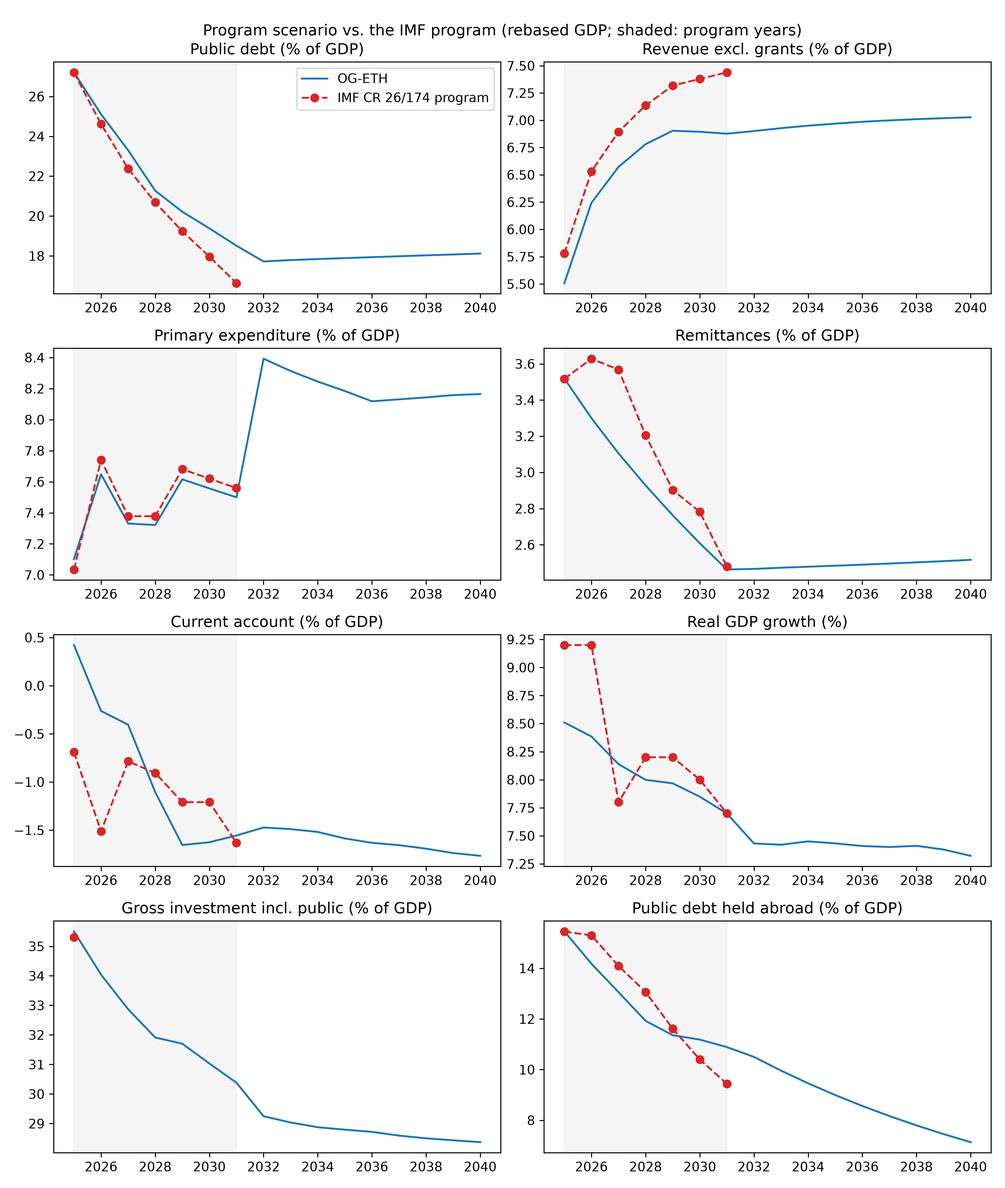
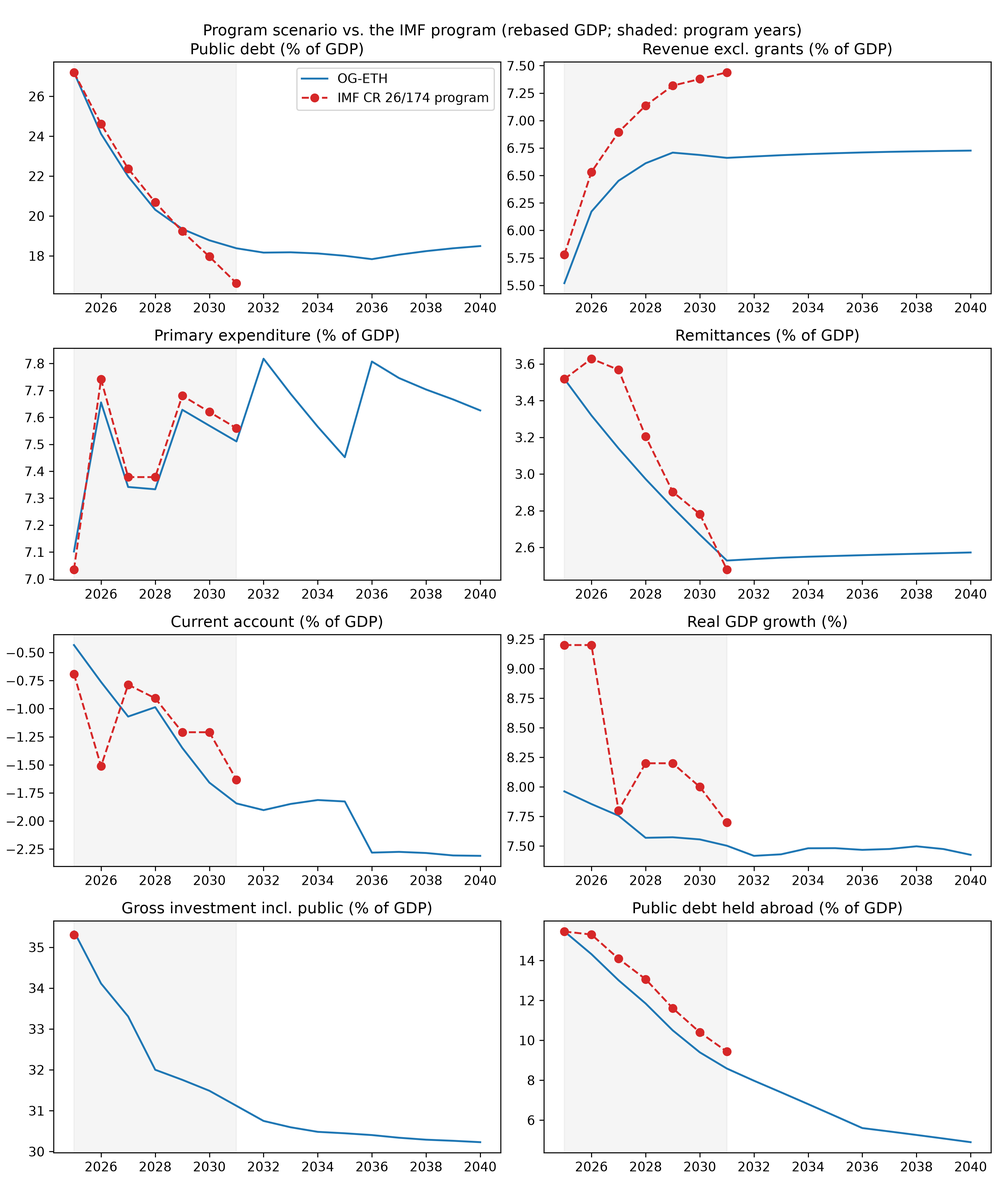
Docs: concessional debt, the market-debt rate path, rebased capital stocks, and the validation table and figures from the official runs of both scenarios

diff --git a/docs/create_doc_figures.py b/docs/create_doc_figures.py
@@ -215,6 +215,8 @@ def calibration_vs_data(
     )[:horizon].reshape(horizon, -1).sum(axis=1)
 
     def ratio(key):
+        if key not in tpi:  # an ogcore without concessional debt
+            return np.zeros(horizon)
         return (
             np.asarray(tpi[key])[:horizon].reshape(horizon, -1).sum(axis=1)
             / y_mkt
@@ -225,9 +227,9 @@ def calibration_vs_data(
         1 + np.asarray(params.g_n)[1 : horizon + 1]
     ) - 1
     # the model's current account: the goods-market residual (net exports)
-    # less the returns paid on foreign-owned capital and foreign-held debt
-    # (OG-Core prices both at the household portfolio return r_p) plus
-    # remittances and grants
+    # less the returns paid on foreign-owned capital and foreign-held market
+    # debt (OG-Core prices both at the household portfolio return r_p) and
+    # the interest on concessional debt, plus remittances and grants
     net_exports = (
         np.asarray(tpi["Y"])[:horizon] / y_mkt
         - ratio("C")
@@ -236,7 +238,9 @@ def calibration_vs_data(
         - ratio("G")
     )
     r_p = np.asarray(tpi["r_p"])[:horizon]
-    factor_payments = r_p * (ratio("K_f") + ratio("D_f"))
+    factor_payments = r_p * (ratio("K_f") + ratio("D_f")) + ratio(
+        "debt_service_ODA"
+    )
     grants = (
         np.asarray(params.alpha_FA).flatten()[:horizon]
         * np.asarray(tpi["Y"])[:horizon]
@@ -244,7 +248,11 @@ def calibration_vs_data(
     )
     current_account = net_exports - factor_payments + ratio("RM") + grants
     panels = [
-        ("Public debt (% of GDP)", 100 * ratio("D"), program.IMF_PUBLIC_DEBT),
+        (
+            "Public debt (% of GDP)",
+            100 * (ratio("D") + ratio("D_ODA")),
+            program.IMF_PUBLIC_DEBT,
+        ),
         (
             "Revenue excl. grants (% of GDP)",
             100 * ratio("total_tax_revenue"),
@@ -288,7 +296,7 @@ def calibration_vs_data(
         ),
         (
             "Public debt held abroad (% of GDP)",
-            100 * ratio("D_f"),
+            100 * (ratio("D_f") + ratio("D_ODA")),
             list(
                 np.array(program.IMF_PUBLIC_DEBT)
                 - np.array(program.IMF_DOMESTIC_DEBT)

diff --git a/docs/book/content/calibration/macro.md b/docs/book/content/calibration/macro.md
@@ -17,7 +17,7 @@ What the rebasing does to a calibration depends on the numerator:
 - **Fiscal flows and stocks in birr, and balance-of-payments flows in dollars, keep their numerators.**  Their rebased ratio is the published ratio times old GDP over new GDP of the same year: 15,094/24,030 = 0.628 for FY2024/25 and 19,268/31,860 = 0.605 for FY2025/26 (`macro_params.rebase_factors`).  The IMF tables are kept exactly as published (on the old base) and converted in code, so every number remains traceable to its table.  Years the rebasing has not yet reached — FY2026/27 onward, still old-base IMF projections — take the FY2025/26 factor until the IMF re-bases its projections.  Public debt falls from 50.5 to 31.7 percent of GDP on the program's wide perimeter, or from 43.3 to 27.2 percent for general government (below); tax revenue from 7.8 to 4.9 percent.
 - **National-accounts components were revised in their numerators too**, so they are not rescaled but taken from the rebased accounts directly: private consumption 64.4 percent of GDP (80.9 on the old base) and gross capital formation **35.3** percent (20.1), FY2024/25, as reported from the ministry's rebasing report and checked against the old-base NBE tables.  Government consumption (about 4.7) and net exports (about −4.5, matching the balance-of-payments goods-and-services balance over rebased GDP) are derived.
 - **Growth rates and household surveys are unaffected**: hours, earnings and wealth distributions, demographics and productivity growth do not depend on the GDP level.  The rebased back series for 2016–2024 has not been published, so `g_y_annual` stays on the old-base growth rates.
-- **Capital stocks have not been rebased.**  The Penn World Table and the IMF capital-stock dataset are built on the old accounts, and the rebased accounts revise investment up by more than GDP.  The calibration assumes the stocks are revised in proportion to GDP, so the capital-output ratios carry over (`macro_params.PWT_CAPITAL_OUTPUT_RATIO`); this is its provisional element, and the capital-output ratio is reported as an outcome rather than targeted ({ref}`Sec_Validation`).
+- **Capital stocks are rebuilt on the rebased investment.**  The Penn World Table and the IMF capital-stock dataset are built on the old accounts, and the rebased accounts revise investment up far more than GDP: 35.3 against 20.1 percent of GDP in FY2024/25, investment by regional state-owned enterprises and non-profit institutions the old accounts missed.  The old accounts had investment at 35–38 percent of GDP in 2013–2017, falling to 20 percent by FY2024/25, so the undercount built up after the old base year.  We rebuild the total stock by perpetual inventory from PWT 11.0's investment and GDP at constant national prices, add the rebasing's investment gap phased in linearly from FY2015/16, and scale PWT's 2023 ratio by the revised over the unrevised stock-output ratio (`macro_params.rebased_capital_output_ratio`): total capital is **2.51** times GDP, in a range of 2.02 (no revision before FY2024/25) to 2.98 (the gap in every year since 1970).  Public capital is the IMF ICSD stock, 0.667 of old-base GDP, a stock of accumulated budget spending in birr that converts like other fiscal stocks (0.419 of rebased GDP), so private capital is 2.10.  The stocks remain the calibration's provisional element until the Ministry publishes capital stocks or back series, and the capital-output ratio is reported as an outcome rather than targeted ({ref}`Sec_Validation`).
 
 The calibration also uses GDP **at market prices**, the basis of every published ratio.  OG-Core's output $Y$ excludes the consumption tax (it is collected on top of the producer price), so shares OG-Core applies to its own $Y$ — spending, transfers, public investment, grants, remittances, the debt ratios, initial wealth and public capital — are the data share times $1/(1-	au^{c}	ext{-revenue share}) = 1.031$ (`macro_params.MODEL_PER_MARKET_GDP`), and model moments are scored over $Y$ plus the consumption tax (`ogeth/targets.py`).
 
@@ -39,7 +39,7 @@ $\zeta_D$ is the share of new **market** debt bought by foreign creditors, and w
 
 ### Foreign holdings of excess capital
 
-$\zeta_K$ is tuned to the foreign-owned share of private capital in FY2024/25, 14.7 percent: the UNCTAD inward FDI stock (World Investment Report 2026: USD 42.5 billion at end-2024 and 46.3 billion at end-2025, so 0.221 of rebased GDP at mid-year) over the private capital-output ratio of 1.50 (Penn World Table 11.0 total capital 2.167 less IMF public capital 0.667).  Ethiopia publishes no international investment position, so the FDI stock is the foreign-owned measure.  The share is scored in the first transition year, where the data are, because with initial wealth anchored to the data the first-year split between domestic and foreign capital depends on $\zeta_K$ (OG-PHL's practice).  The tuned value, 0.091, sits below the prior from Ethiopia's **normalized Chinn-Ito capital-account-openness index**, which is 0.162 in the 2023 vintage and flat since the 1990s (the [Chinn-Ito KAOPEN dataset](https://web.pdx.edu/~ito/Chinn-Ito_website.htm)).  This places Ethiopia in the second-lowest openness bin, just above fully-closed economies and well below the investment-grade siblings OG-PHL (0.45) and OG-IDN (0.42).  It is cross-checked against the flow evidence: foreign direct investment of about USD 4.0 billion in FY2024/25 ([Ethiopian Investment Commission](https://unctad.org/publication/world-investment-report-2025)) against gross fixed capital formation of about 20 percent of a roughly USD 126 billion economy implies foreign financing of new capital in the low-teens percent (about 11–16 percent depending on the window), which the FDI-stock level now replaces as the target.  Ethiopia is a near-closed capital account: the [IMF Annual Report on Exchange Arrangements and Exchange Restrictions](https://www.imf.org/en/Publications/Annual-Report-on-Exchange-Arrangements-and-Exchange-Restrictions) documents binding foreign-exchange controls until the July 2024 reform, no resident access to international portfolio markets, and only nascent foreign participation via the Ethiopian Securities Exchange (launched January 2025) and the 2024 banking-sector opening.  The index locates the plausible range; the FDI stock sets the level.
+$\zeta_K$ is tuned to the foreign-owned share of private capital in FY2024/25, 10.5 percent: the UNCTAD inward FDI stock (World Investment Report 2026: USD 42.5 billion at end-2024 and 46.3 billion at end-2025, so 0.221 of rebased GDP at mid-year) over the private capital-output ratio of 2.10 on the rebased accounts ({ref}`Sec_Rebasing`).  Ethiopia publishes no international investment position, so the FDI stock is the foreign-owned measure.  The share is scored in the first transition year, where the data are, because with initial wealth anchored to the data the first-year split between domestic and foreign capital depends on $\zeta_K$ (OG-PHL's practice).  The tuned value, 0.126, sits below the prior from Ethiopia's **normalized Chinn-Ito capital-account-openness index**, which is 0.162 in the 2023 vintage and flat since the 1990s (the [Chinn-Ito KAOPEN dataset](https://web.pdx.edu/~ito/Chinn-Ito_website.htm)).  This places Ethiopia in the second-lowest openness bin, just above fully-closed economies and well below the investment-grade siblings OG-PHL (0.45) and OG-IDN (0.42).  It is cross-checked against the flow evidence: foreign direct investment of about USD 4.0 billion in FY2024/25 ([Ethiopian Investment Commission](https://unctad.org/publication/world-investment-report-2025)) against gross fixed capital formation of about 20 percent of a roughly USD 126 billion economy implies foreign financing of new capital in the low-teens percent (about 11–16 percent depending on the window), which the FDI-stock level now replaces as the target.  Ethiopia is a near-closed capital account: the [IMF Annual Report on Exchange Arrangements and Exchange Restrictions](https://www.imf.org/en/Publications/Annual-Report-on-Exchange-Arrangements-and-Exchange-Restrictions) documents binding foreign-exchange controls until the July 2024 reform, no resident access to international portfolio markets, and only nascent foreign participation via the Ethiopian Securities Exchange (launched January 2025) and the 2024 banking-sector opening.  The index locates the plausible range; the FDI stock sets the level.
 
 ### World interest rate
 
@@ -172,7 +172,7 @@ OG-ETH program scenario against the IMF fifth-review program path.  Shaded years
 (Sec_InitialWealth)=
 ### Initial household wealth
 
-The transition starts from a predetermined stock of household wealth.  By default OG-Core sets it to the steady-state level, which for Ethiopia would mean starting the economy with the capital stock it will only reach after decades of catch-up.  Where the installed OG-Core supports it (PSLmodels/OG-Core#1189, `initial_wealth_ratio`), the example anchors aggregate initial wealth to the data instead: household wealth in the model is domestically owned capital plus domestically held government debt, so its data counterpart is the Penn World Table capital-output ratio of about 2.2, less the inward FDI stock of about 0.24 of GDP (UNCTAD), plus domestically held public debt of 18.7 percent of GDP (50.5 less 31.8 external; {cite}`IMFCR26174:2026`, Table 1) — a ratio of **2.15** to steady-state GDP, against a steady-state wealth-to-GDP ratio near 3.1.  The value lives in `ogeth.macro_params.INITIAL_WEALTH_RATIO` and is applied by the example only when the parameter exists, so the packaged calibration keeps loading with the released OG-Core; it moves into `ogeth_default_parameters.json` once an OG-Core release carrying the parameter is the project's floor.  Until then the project's `uv` environment pins OG-Core to a build with both this parameter and `r_gov_floor` — OG-Core master merged into the #1189 branch, on `marcelolafleur/OG-Core` (`integrate/master-plus-1189`) — via `[tool.uv.sources]` in `pyproject.toml`, so `uv sync` followed by `uv run python examples/run_og_eth.py` reproduces the results on this page; a `pip install ogeth` gets the released OG-Core and the two fallbacks the example announces.
+The transition starts from a predetermined stock of household wealth.  By default OG-Core sets it to the steady-state level, which for Ethiopia would mean starting the economy with the capital stock it will only reach after decades of catch-up.  Where the installed OG-Core supports it (PSLmodels/OG-Core#1189, `initial_wealth_ratio`), the example anchors aggregate initial wealth to the data instead: household wealth in the model is domestically owned capital plus domestically held government debt, so its data counterpart is private capital of 2.10 times GDP on the rebased accounts ({ref}`Sec_Rebasing`), less the inward FDI stock of 0.221 of GDP (UNCTAD), plus domestically held general-government debt of 11.7 percent of rebased GDP (18.7 percent of old-base GDP; {cite}`IMFCR26174:2026`, Table 1) — 1.99 times GDP at market prices, **2.054** in the model's output units (`ogeth.macro_params.INITIAL_WEALTH_RATIO`, set in the packaged parameters).  With OG-Core's Anderson outer loop the anchor is accelerated together with the prices; damped on its own it took about three times as many transition iterations (PSLmodels/OG-Core, branch `anderson-initial-wealth`).
 
 
 ### Remittances
@@ -196,7 +196,7 @@ The quintile shares are mapped onto the model's seven lifetime-income groups by 
 (Sec_Validation)=
 ## Validation
 
-Every target is a measured FY2024/25 value on the rebased national accounts at market prices (`ogeth/targets.py`), and the dials tuned to them are scored in the **first model year**, where the data are: Ethiopia's population is far from stationary and its initial wealth is anchored to the data, so a steady-state moment would describe a different economy.  The steady state is matched only to the household survey distributions (hours by age, wealth shares) and to its policy anchors.  The table compares the solved transitions and steady states of both scenarios (`examples/run_og_eth.py` and `--scenario program`, OG-Core 0.24.4 with PSLmodels/OG-Core#1276 and #1277) with the data.  Revenue lines are the mapped instruments of {ref}`Chap_Tax`.
+Every target is a measured FY2024/25 value on the rebased national accounts at market prices (`ogeth/targets.py`), and the dials tuned to them are scored in the **first model year**, where the data are: Ethiopia's population is far from stationary and its initial wealth is anchored to the data, so a steady-state moment would describe a different economy.  The steady state is matched only to the household survey distributions (hours by age, wealth shares) and to its policy anchors.  The table compares the solved transitions and steady states of both scenarios (`examples/run_og_eth.py` and `--scenario program`, from an installer copy of this branch; OG-Core master with concessional debt, PSLmodels/OG-Core#1276 and #1277, and Anderson-accelerated initial wealth) with the data.  Each transition converged in 17 outer iterations, about four and a half minutes.  Revenue lines are the mapped instruments of {ref}`Chap_Tax`.
 
 ```{figure} ./images/calibration_vs_program.png
 ---
@@ -209,43 +209,47 @@ OG-ETH history-anchored baseline against the IMF fifth-review program path, both
 
 | Moment | History-anchored baseline | Program scenario | Ethiopia data | Source |
 |:---|:---:|:---:|:---:|:---|
-| General-government debt / GDP, FY2030/31 | 19.6 | 18.5 | 16.6 (program); 27.2 in FY2024/25 | IMF WEO Oct 2026, rebased |
-| Debt anchor `debt_ratio_ss` (model units) | 0.280 (measured) | 0.187 (program) |  |  |
-| Revenue excl. grants / GDP, FY2024/25 → FY2030/31 | 5.5 → 5.9 | 5.5 → 6.9 | 5.8 → 7.4 (program); mapped instruments 5.55 in FY2024/25 | NBE AR 2024/25; IMF CR 26/174 |
+| General-government debt / GDP, FY2030/31 | 21.1 | 18.4 | 16.6 (program); 27.2 in FY2024/25 | IMF WEO Oct 2026, rebased |
+| of which concessional, FY2024/25 | 13.9 | 13.9 | 13.9 (official share of external debt) | IMF CR 26/174 DSA |
+| Debt anchor `debt_ratio_ss` (model units, all market debt in the long run) | 0.280 (measured) | 0.187 (program) |  |  |
+| Revenue excl. grants / GDP, FY2024/25 → FY2030/31 | 5.5 → 5.7 | 5.5 → 6.7 | 5.8 → 7.4 (program); mapped instruments 5.55 in FY2024/25 | NBE AR 2024/25; IMF CR 26/174 |
 | Personal income tax / GDP, FY2024/25 | 0.81 | 0.81 | 0.81 | NBE AR 2024/25 |
 | Corporate and capital-income taxes / GDP, FY2024/25 | 1.26 | 1.26 | 1.26 | NBE AR 2024/25 |
-| Consumption taxes, fees and sales / GDP, FY2024/25 | 2.98 | 2.96 | 3.01 | NBE AR 2024/25 |
+| Consumption taxes, fees and sales / GDP, FY2024/25 | 3.00 | 2.98 | 3.01 | NBE AR 2024/25 |
 | Land-use fees / GDP, FY2024/25 | 0.18 | 0.18 | 0.18 | NBE AR 2024/25 |
 | Pension contributions / GDP, FY2024/25 | 0.29 | 0.29 | 0.29 (estimate) | POESSA, PSSSA |
-| Pension outlays / GDP, FY2024/25; steady state | 0.31; 1.10 | 0.31; 1.08 | 0.31 (FY2024/25) | IMF CR 26/174, rebased |
-| Gross capital formation / GDP, FY2024/25 | 35.4 | 35.5 | 35.3 | rebased national accounts |
-| Private consumption / GDP, FY2024/25 | 60.1 | 59.7 | 64.4 | rebased national accounts |
-| Foreign-owned share of private capital, FY2024/25 | 14.7 | 14.7 | 14.7 | UNCTAD WIR 2026; PWT 11.0; IMF ICSD |
-| Household wealth / GDP, FY2024/25 (imposed); steady state | 1.40; 2.39 | 1.40; 2.33 | 1.40 | PWT, UNCTAD, IMF |
-| Private capital / GDP, FY2024/25; steady state | 1.50; 2.28 | 1.50; 2.30 | 1.50 (provisional) | PWT 11.0 less ICSD |
+| Pension outlays / GDP, FY2024/25; steady state | 0.31; 1.06 | 0.32; 1.05 | 0.31 (FY2024/25) | IMF CR 26/174, rebased |
+| Gross capital formation / GDP, FY2024/25 | 35.4 | 35.4 | 35.3 | rebased national accounts |
+| Private consumption / GDP, FY2024/25 | 64.7 | 64.3 | 64.4 | rebased national accounts |
+| Foreign-owned share of private capital, FY2024/25 | 10.5 | 10.5 | 10.5 | UNCTAD WIR 2026; rebased stocks |
+| Household wealth / GDP, FY2024/25 (imposed); steady state | 1.99; 2.69 | 1.99; 2.61 | 1.99 | rebased stocks, UNCTAD, IMF |
+| Private capital / GDP, FY2024/25; steady state | 2.10; 2.58 | 2.10; 2.58 | 2.10 (rebuilt, provisional) | PWT 11.0 with the rebasing's investment, less ICSD |
 | Remittances / GDP | 3.5 (flat) | 3.5 → 2.4 | 3.5 (FY2024/25) | IMF CR 26/174, rebased |
-| Net exports / GDP, FY2024/25; steady state | 1.8; -4.0 | 2.1; -2.4 | -4.5 | IMF CR 26/174 Table 4a, rebased |
-| Factor payments abroad / GDP, FY2024/25 | 6.3 | 6.3 | 0.4 | IMF CR 26/174 Table 4a |
+| Net exports / GDP, FY2024/25; steady state | -2.8; -4.1 | -2.4; -2.5 | -4.5 | IMF CR 26/174 Table 4a, rebased |
+| Payments abroad on capital and debt / GDP, FY2024/25 | 2.6 | 2.6 | 0.4 (net primary income) | IMF CR 26/174 Table 4a |
 | Government consumption / GDP | 2.7 | 2.7 | 2.8 (fiscal accounts); about 4.7 (national accounts) | IMF CR 26/174; rebased accounts |
-| Real GDP growth, FY2025/26 | 8.4 | 8.5 | 7.7 (rebased, preliminary); 9.2 (IMF, old base) | MoNS; IMF CR 26/174 |
-| Return on capital $r$, FY2024/25; steady state | 13.7; 7.2 | 13.7; 7.0 | high (capital-scarce) | model |
+| Real GDP growth, FY2025/26 | 7.9 | 8.0 | 7.7 (rebased, preliminary); 9.2 (IMF, old base) | MoNS; IMF CR 26/174 |
+| Return on capital $r$, FY2024/25; steady state | 8.9; 6.3 | 8.9; 6.2 | high (capital-scarce) | model |
+| Real rate on market debt $r_{gov}$, FY2024/25; steady state | -10.3; 4.7 | -10.4; 4.7 | -11.0; 4.5–4.9 (new domestic borrowing) | IMF CR 26/174 DSA |
 
-**What the calibration matches.**  Every dial lands on its own moment in FY2024/25 to within about 1 percent: personal income tax, corporate and capital-income taxes, consumption taxes and fees, land-use fees, pension contributions and pension outlays, gross capital formation (the level of patience) and the foreign-owned share of private capital ($\zeta_K$).  Debt, household wealth and remittances are imposed at their measured values.  Hours per person match the 2021 Labour Force and Migration Survey at every fitted age, and the wealth shares match WID's 2021 shares for every group to within 4 percent ({ref}`Chap_HouseholdCalib`).
+**What the calibration matches.**  Every dial lands on its own moment in FY2024/25 to within about 1 percent: personal income tax, corporate and capital-income taxes, consumption taxes and fees, land-use fees, pension contributions and pension outlays, gross capital formation (the level of patience) and the foreign-owned share of private capital ($\zeta_K$).  Debt, its concessional part, household wealth and remittances are imposed at their measured values.  Private consumption, which no dial targets, lands at 64.7 percent of GDP against 64.4.  Hours per person match the 2021 Labour Force and Migration Survey at every fitted age, and the wealth shares match WID's 2021 shares for every group to within 1 percent ({ref}`Chap_HouseholdCalib`).
 
-**What the history-anchored baseline finds.**  With nothing imposed after the FY2025/26 budget, general-government debt falls from 27.2 to 19.6 percent of GDP by FY2030/31, against the program's 16.6: most of the program's debt decline comes from growth and the negative real rate eroding the legacy stock, and the rest from the measures the program adds (revenue rising to 7.4 rather than 5.9 percent of GDP, the phase-out of grants, the borrowing mix).  After FY2030/31 the closure rule returns debt to its measured starting ratio, which shows as the jump in primary spending in 2032; that is the baseline's definition of unchanged policy, not a forecast.  Growth runs 8.4 percent in FY2025/26 against the rebased preliminary 7.7 and the IMF's old-base 9.2.  The program scenario lands debt at 18.5 percent in FY2030/31 with revenue at 6.9.
+**What concessional debt changed.**  Before it was modelled, every unit of public debt held abroad earned the household portfolio return, about 12 percent in the first year, so payments abroad were 6.3 percent of GDP, the model needed a trade surplus of 1.8 percent to pay them, and consumption fell to 60 percent of GDP.  With the official share of external debt at its own rate (about $-1$ percent real in FY2024/25), interest on public debt held abroad nets to about zero (0.2 percent of GDP on foreign-held market debt, less 0.2 of negative real interest on concessional debt) instead of 1.8, the trade balance is a deficit of 2.8 percent and consumption is 64.7.  The rest of the difference comes from the rebased capital stocks, which lowered the first-year return on capital from 13.7 to 8.9 percent.
 
-**What neither scenario matches, and why.**  *The trade balance and consumption* are one gap.  OG-Core pays foreign-owned capital and foreign-held public debt the household portfolio return, 14 percent in real terms in the first year (`fiscal.get_debt_service_f`, `aggregates.get_capital_outflows`), so factor payments abroad are 6.3 percent of GDP against 0.4 in the data, where external public debt is concessional and repatriated FDI income small.  With the external inflows (remittances, grants) tied down, the model must run a trade surplus of 1.8 percent of GDP to pay them, against a deficit of 4.5, and consumption absorbs the difference (60 against 64 percent of GDP).  The gap shrinks as the first-year return falls (factor payments 3.5 percent of GDP by FY2030/31) and is a convention of OG-Core's open-economy block, not a shortfall of external financing.  *Government consumption* is 2.7 percent of GDP, the fiscal-accounts figure the budget identity uses; the rebased national accounts imply about 4.7 (derived as a residual), a gap the full rebasing report should reconcile.  *The capital-output ratio* is not targeted: on the rebased accounts the Penn World Table stock is provisional, and the steady-state private ratio of 2.3 follows from patience set by first-year investment.
+**What the history-anchored baseline finds.**  With nothing imposed after the FY2025/26 budget, general-government debt falls from 27.2 to 21.1 percent of GDP by FY2030/31, against the program's 16.6, and public debt held abroad follows the program's path closely as concessional debt is repaid.  Most of the program's further decline comes from the measures it adds (revenue rising to 7.4 rather than 5.7 percent of GDP, the phase-out of grants).  After FY2030/31 the closure rule returns debt to its measured starting ratio, refinancing the remaining concessional debt with market debt; that is the baseline's definition of unchanged policy, not a forecast.  Growth runs 7.9 percent in FY2025/26 against the rebased preliminary 7.7 and the IMF's old-base 9.2.  The program scenario lands debt at 18.4 percent in FY2030/31 with revenue at 6.7.  The paths have a kink in 2036, where the concessional-debt path, interpolated between the DSA's published years, slows its decline and the closure rule spends the smaller repayments.
 
-**Resource constraint.**  The transition's resource-constraint error is at most $1.2 \times 10^{-7}$ in every period except period 120, where OG-Core switches to the fixed steady-state population (`fixper`) and the error is $2.6 \times 10^{-4}$, a known OG-Core bookkeeping break ({ref}`Chap_Demog`).  `RC_TPI` is set to $10^{-3}$, ten times OG-Core's default, to accommodate that single period; it was 0.01 before.
+**What neither scenario matches, and why.**  *The trade balance* is about 1.7 points of GDP short of the data's deficit, and almost all of that is *government consumption*: 2.7 percent of GDP, the fiscal-accounts figure the budget identity uses, against about 4.7 in the rebased national accounts, where it is derived as a residual.  Two more points of government consumption would put the trade balance near the data; the full rebasing report should reconcile the two.  *Payments abroad* remain 2.6 percent of GDP against net primary income of 0.4: OG-Core pays foreign-owned capital the household portfolio return, which includes the rent on public capital (about 12 percent in the first year, `aggregates.get_r_p`), while the inward FDI return measured for Africa is about 6 percent.  This is a convention of OG-Core's open-economy block.  *The capital-output ratio* is not targeted: the rebuilt stock is provisional, and the steady-state private ratio of 2.6 follows from patience set by first-year investment.
+
+**Resource constraint.**  The transition's resource-constraint error is at most $1.5 \times 10^{-7}$ in every period except period 120, where OG-Core switches to the fixed steady-state population (`fixper`) and the error is $3.1 \times 10^{-4}$, a known OG-Core bookkeeping break ({ref}`Chap_Demog`).  `RC_TPI` is set to $10^{-3}$, ten times OG-Core's default, to accommodate that single period; it was 0.01 before.
 
 | Periods | Largest resource-constraint error |
 |:---|:---:|
-| 0–9 (FY2024/25–FY2033/34) | 1.2e-7 |
-| 10–69 | 4.5e-8 |
-| 70–80 (end of the UN data window, 2098) | 1.8e-9 |
-| 81–118 | 1.8e-9 |
-| 119–122 (`fixper` = 120) | 2.6e-4 |
-| 123 to the end | 6.6e-8 |
+| 0–9 (FY2024/25–FY2033/34) | 1.3e-7 |
+| 10–69 | 1.3e-7 |
+| 70–80 (end of the UN data window, 2098) | 7.1e-8 |
+| 81–118 | 8.4e-8 |
+| 119–122 (`fixper` = 120) | 3.1e-4 |
+| 123 to the end | 1.8e-8 |
 
 (SecMacro_footnotes)=
 ## Footnotes

diff --git a/CHANGELOG.md b/CHANGELOG.md
@@ -15,14 +15,17 @@ and this project adheres to [Semantic Versioning](https://semver.org/spec/v2.0.0
 * The payroll tax varies by lifetime-income group (OG-Core 0.20.4+): the statutory 18 percent contribution on the pension-covered groups times a contribution scale tuned to contributions, zero for the informal groups (previously a flat 3 percent on everyone).
 * The earnings age factor is now pay **per hour**: NTA labor income per capita divided by hours worked per person (employment ratio times weekly hours of the employed; LFMS 2021 for Ethiopia, ILOSTAT CPS 2010 for the United States), because labor supply is hours per person and dividing by the employment ratio alone counted hours twice (OG-PHL's correction).
 * The demographics read the UN projection to **2098** instead of two years past the start year, so long-run population growth is the projection's end-of-century rate (about -0.1 percent) instead of today's 2.6 percent frozen forever.
-* Depreciation of private capital is sourced: 0.0509 from the Penn World Table 11.0 total rate of 0.0414 with public capital (IMF ICSD) at 0.02. Capital-output ratios use PWT 11.0 (2.167 total, 1.50 private) on the assumption that the rebasing revises capital stocks in proportion to GDP; they are reported as outcomes, not targets.
-* Initial household wealth is private K/Y less the FDI stock (UNCTAD WIR 2026, 0.221 of rebased GDP) plus domestic debt, 1.44 of model output (previously 2.15, which did not subtract public capital); on OG-Core 0.22+ `initial_wealth_ratio` is relative to first-year GDP.
-* `zeta_K` is tuned to the foreign-owned share of private capital in FY2024/25 (FDI stock over private capital, 14.7 percent) and comes out at 0.091; the level of the discount factors is tuned to first-year investment (35.3 percent of GDP), the relative factors to WID wealth shares, and `chi_n` to LFMS hours by age. `beta_annual` is now 0.684, 0.684, 0.834, 0.879, 0.901, 0.912, 0.958. The tuning runs through `examples/tune.py`, which scores every dial on its own moment, in the first model year for the fiscal and investment dials and in the steady state for hours and wealth shares; the superseded steady-state matching loop in `ogeth.calibrate` is removed.
-* The bottom quarter's wealth share (floored at 0.5 percent; negative in WID) is matched with its own bequest weight, `chi_b` 80 -> 8.73 for that group. With OG-USA's 80 the poorest elderly, whose transfers and remittances are several times their consumption, saved nearly all of them for bequests (the group held 2.3 percent of wealth), and the resulting first-year household problem was so badly conditioned that the corporate-tax reform's transition failed OG-Core 0.24's check on households alive in the first year (on released OG-Core and with #1276/#1277 alike). With the new weight every group's wealth share matches WID within 4 percent and both scenarios' baseline and reform solve, with Euler errors near 1e-10.
-* `RC_TPI` 0.01 -> 0.001: the transition's resource-constraint error is at most 1.2e-7 in every period except the `fixper` switch to the stationary population (period 120, 2.6e-4).
-* `mean_income_data` is rebased GDP per adult in FY2024/25 birr, the model's currency unit (360,264 birr). The effective consumption-tax rate (`tau_c` 0.060 -> 0.052), the CIT collections factor (0.327 -> 0.220) and the compliance scale (0.198 -> 0.053) are re-tuned to the FY2024/25 outturn on the rebased base. The previous value used the IMF's FY2026/27 GDP mislabeled as FY2025/26.
+* Capital stocks are rebuilt on the rebased accounts: perpetual inventory on Penn World Table 11.0 with the rebasing's investment gap (35.3 against 20.1 percent of GDP in FY2024/25) phased in from the old base year, FY2015/16, gives total capital of 2.51 times GDP (range 2.02-2.98; `macro_params.rebased_capital_output_ratio`, data in `ogeth/data/pwt110_eth_capital.csv`). Public capital (IMF ICSD, 0.667 of old-base GDP) converts like other fiscal stocks, to 0.419, so private capital is 2.10 and `initial_Kg_ratio` 0.432. Depreciation of private capital is sourced from the PWT total rate of 0.0414 with public capital at 0.02: 0.0457. The ratios are reported as outcomes, not targets.
+* Initial household wealth is private K/Y less the FDI stock (UNCTAD WIR 2026, 0.221 of rebased GDP) plus domestic debt, 2.054 of model output on the rebased stocks (previously 2.15, which did not subtract public capital); on OG-Core 0.22+ `initial_wealth_ratio` is relative to first-year GDP.
+* `zeta_K` is tuned to the foreign-owned share of private capital in FY2024/25 (FDI stock over private capital, 10.5 percent) and comes out at 0.126; the level of the discount factors is tuned to first-year investment (35.3 percent of GDP), the relative factors to WID wealth shares, and `chi_n` to LFMS hours by age. `beta_annual` is now 0.737, 0.737, 0.861, 0.898, 0.918, 0.928, 0.970. The tuning runs through `examples/tune.py`, which scores every dial on its own moment, in the first model year for the fiscal and investment dials and in the steady state for hours and wealth shares; the superseded steady-state matching loop in `ogeth.calibrate` is removed.
+* The bottom quarter's wealth share (floored at 0.5 percent; negative in WID) is matched with its own bequest weight, `chi_b` 80 -> 8.78 for that group. With OG-USA's 80 the poorest elderly, whose transfers and remittances are several times their consumption, saved nearly all of them for bequests (the group held 2.3 percent of wealth), and the resulting first-year household problem was so badly conditioned that the corporate-tax reform's transition failed OG-Core 0.24's check on households alive in the first year (on released OG-Core and with #1276/#1277 alike). With the new weight every group's wealth share matches WID within 1 percent and both scenarios' baseline and reform solve, with Euler errors near 1e-10.
+* `RC_TPI` 0.01 -> 0.001: the transition's resource-constraint error is at most 1.5e-7 in every period except the `fixper` switch to the stationary population (period 120, 3.1e-4).
+* `mean_income_data` is rebased GDP per adult in FY2024/25 birr, the model's currency unit (360,264 birr). The effective consumption-tax rate (`tau_c` 0.060 -> 0.052), the CIT collections factor (0.327 -> 0.230) and the compliance scale (0.198 -> 0.053) are re-tuned to the FY2024/25 outturn on the rebased base. The previous value used the IMF's FY2026/27 GDP mislabeled as FY2025/26.
 * `gamma` is off the live-API path; the triangulated 0.30 can no longer be overwritten by the naive ILOSTAT labour share.
-* Requires OG-Core 0.24.4: `alpha_db` and `tau_payroll` in their nested year-by-group form, `initial_wealth_ratio` and `r_gov_floor` in the packaged parameters, and the solver settings (`nu` 0.2, Anderson acceleration) in the JSON. The project's uv environment pins OG-Core master plus PSLmodels/OG-Core#1276 and #1277, two open speed fixes that leave results unchanged.
+* Concessional external debt is modelled at its own interest rate (OG-Core's `alpha_ODA` and `r_ODA_annual`, PSLmodels/OG-Core#1125). The official share of general-government external debt (90 percent; IMF CR 26/174), 13.9 percent of rebased GDP in FY2024/25, moves with the DSA's public external debt ratio to 2046 and then falls to zero, ending with IDA graduation, at the DSA's average external interest rate less US inflation (-1.3 percent real in FY2024/25). Market debt, OG-Core's `D`, is the rest: `initial_debt_ratio` 0.280 -> 0.137, its foreign-held part the non-official external debt (`initial_foreign_debt_ratio` 0.568 -> 0.116, also `zeta_D`, 0.15 before). Interest on public debt held abroad falls from about 1.8 percent of GDP to about zero, and FY2024/25 private consumption moves from 60.1 to 64.7 percent of GDP (data 64.4) and the trade balance from +1.8 to -2.8 (data -4.5).
+* `r_gov` now prices market debt at the DSA's average real rate on domestic debt, -11.0 percent in FY2024/25 rising to 4.6 in 2036, and 4.7 percent in the long run, the mean of the DSA's terms for new domestic borrowing (previously a blended rate implied by the debt path, held and then converging to 2 percent). `r_gov_floor` -0.10 -> -0.12.
+* `examples/tune.py` carries every override of a run into its next-overrides file, so a tuning sequence is one call per step with nothing to merge by hand.
+* Requires OG-Core with concessional debt (PSLmodels/OG-Core#1125, unreleased), plus 0.24.4's `alpha_db` and `tau_payroll` in their nested year-by-group form, `initial_wealth_ratio` and `r_gov_floor` in the packaged parameters, and the solver settings (`nu` 0.2, Anderson acceleration) in the JSON. The project's uv environment pins a local integration build: OG-Core master plus concessional debt, PSLmodels/OG-Core#1276 and #1277 (speed fixes that leave results unchanged), and Anderson-accelerated initial wealth, which cuts the transition from about 57 to 17 outer iterations with the same solution. The pin must move to a public ref before release.
 * Added `ogeth/targets.py` (every dashboard target with its source and dial), `examples/tune.py` (the tuning script), `ogeth/warm_start.py` with a shipped seed (ported from OG-PHL), and `tests/test_rebasing_targets.py`.
 
 ## [0.3.0] - 2026-09-10 20:00:00

diff --git a/docs/book/content/calibration/firms.md b/docs/book/content/calibration/firms.md
@@ -36,7 +36,7 @@ The measured labour share of output for Ethiopia is low. The [UN ILOSTAT labour 
 
 The ILOSTAT series already applies a self-employment imputation, so 0.385 is not a raw employee-compensation figure. Adjusting *below* it (i.e. to a higher labour share) rests on three lines of evidence, the first of which does not use the labour share at all.
 
-1. **Ethiopia's capital–output ratio implies a capital share near 0.40, independent of any labour-share measurement.** Under the competitive first-order condition, the capital share, the capital–output ratio, and the net return are linked by $\gamma = (r + \delta)\,(K/Y)$. The Penn World Table (version 11.0) puts Ethiopia's capital–output ratio at 2.17 in 2023 (2.17–2.26 over 2020–2023), on the old national accounts; the calibration assumes capital stocks are revised in proportion to GDP by the 2026 rebasing ({ref}`Sec_Rebasing`), so the ratio carries over. At $\delta = 0.05$, the ILOSTAT-implied total capital share of 0.615 would require a real return of $0.615/2.2 - 0.05 \approx 18$ percent — far above the 9–14 percent range plausible even for a capital-scarce frontier economy. A total capital share of 0.40 implies $0.40/2.2 - 0.05 \approx 13$ percent, and 0.30 implies about 9 percent. So the observed capital–output ratio, at any defensible return, backs out a total capital share of roughly 0.30–0.40 — with the ILOSTAT figure, not the adjusted one, as the outlier. This is a growth-accounting identity rather than a labour-share argument, so it is an independent check.
+1. **Ethiopia's capital–output ratio implies a capital share near 0.40, independent of any labour-share measurement.** Under the competitive first-order condition, the capital share, the capital–output ratio, and the net return are linked by $\gamma = (r + \delta)\,(K/Y)$. The Penn World Table (version 11.0) puts Ethiopia's capital–output ratio at 2.17 in 2023 on the old national accounts; rebuilt on the rebased investment it is about 2.5 ({ref}`Sec_Rebasing`, range 2.0–3.0). At $\delta = 0.05$, the ILOSTAT-implied total capital share of 0.615 would require a real return of $0.615/2.5 - 0.05 \approx 20$ percent (23 percent on the old-base 2.2) — far above the 9–14 percent range plausible even for a capital-scarce frontier economy. A total capital share of 0.40 implies $0.40/2.5 - 0.05 \approx 11$ percent, and 0.30 implies about 7 percent. So the observed capital–output ratio, at any defensible return, backs out a total capital share of roughly 0.30–0.40 — with the ILOSTAT figure, not the adjusted one, as the outlier. This is a growth-accounting identity rather than a labour-share argument, so it is an independent check.
 
 2. **The direction of the residual bias is known.** {cite}`Gollin:2002` shows that naive labour shares vary across countries largely because of how self-employment is treated, and that fuller self-employment adjustments raise labour shares for low-income agrarian economies to 0.65–0.80 regardless of the starting figure. ILOSTAT's imputation is comparatively conservative, so its 0.385 sits toward the low end of where a complete adjustment would land.
 
@@ -76,11 +76,11 @@ The parameter `initial_Kg_ratio` sets the ratio of public capital stock to GDP i
 
 which matches the solved baseline steady state ($\bar{K}_g/\bar{Y} = 0.270$).  Ethiopia's *measured* public capital stock is much higher — about 0.67 of GDP in 2019 per the [IMF Investment and Capital Stock Dataset](https://data.imf.org/en/Data-Explorer?datasetUrn=IMF.FAD:ICSD(1.0.0)), the accumulated result of the state-led, largely SOE-financed infrastructure push of the 2010s (roads, rail, power, and the Grand Ethiopian Renaissance Dam, completed September 2025).
 
-We set `initial_Kg_ratio` to the measured stock, 0.667 of GDP converted to the model's output basis (0.688; {ref}`Sec_Rebasing`), and let it depreciate toward the sustainable steady state over the transition.  This starts the model from the public capital Ethiopia actually has — the infrastructure is real and productive (it enters the production function through $\gamma_{g}$) — rather than pretending it away.  Because that stock was built by an investment rate (public-sector investment reached 15–18 percent of GDP in the boom, mostly off-budget through SOEs) that is not sustainable at Ethiopia's current revenue — the same over-accumulation that produced the debt distress and the 2023 default — the model's long-run $\bar{K}_g/\bar{Y}$ (0.27) sits well below it, and the transition traces the honest counterfactual: public capital falls from 0.69 toward 0.27 over roughly a generation.  The consequence for output is sizeable — starting at the measured stock lifts baseline GDP about 10 percent in the model start year relative to starting near the steady state, a premium that halves about every fifteen years as the capital normalizes.  (Some of the measured stock is low-return — stalled sugar complexes, underused industrial parks — so 0.67 is an upper bound on genuinely productive public capital; the model does not haircut it explicitly but depreciates the unsustainable portion away endogenously.)
+We set `initial_Kg_ratio` to the measured stock, 0.667 of old-base GDP, which as a stock of accumulated budget spending in birr converts like other fiscal stocks to 0.419 of rebased GDP and 0.432 in the model's output units ({ref}`Sec_Rebasing`), and let it depreciate toward the sustainable steady state over the transition.  This starts the model from the public capital Ethiopia actually has — the infrastructure is real and productive (it enters the production function through $\gamma_{g}$) — rather than pretending it away.  Because that stock was built by an investment rate (public-sector investment reached 15–18 percent of GDP in the boom, mostly off-budget through SOEs) that is not sustainable at Ethiopia's current revenue — the same over-accumulation that produced the debt distress and the 2023 default — the model's long-run $\bar{K}_g/\bar{Y}$ (0.27) sits well below it, and the transition traces the honest counterfactual: public capital falls from 0.43 toward 0.27 over roughly a generation.  Starting from the measured stock raises output in the first years relative to starting near the steady state, a premium that fades as public capital normalizes.  (Some of the measured stock is low-return — stalled sugar complexes, underused industrial parks — so it is an upper bound on genuinely productive public capital; the model does not haircut it explicitly but depreciates the unsustainable portion away endogenously.)
 
 ### Depreciation
 
-OG-Core's `delta_annual` is the depreciation rate of *private* capital; public capital depreciates at its own $\delta_g$.  The Penn World Table 11.0 depreciation rate of Ethiopia's total capital stock is 0.0414 in 2023.  With public capital 0.667/2.167 = 31 percent of the total (IMF ICSD over PWT) depreciating at $\delta_g = 0.02$, the private rate that reproduces the total is $(0.0414 - 0.308 \times 0.02)/0.692 = 0.0509$ (`macro_params.DELTA_ANNUAL`).  It replaces OG-Core's US default of 0.05 with a sourced value that happens to be close to it.
+OG-Core's `delta_annual` is the depreciation rate of *private* capital; public capital depreciates at its own $\delta_g$.  The Penn World Table 11.0 depreciation rate of Ethiopia's total capital stock is 0.0414 in 2023.  With public capital 0.419/2.514 = 17 percent of the rebased total (IMF ICSD over the rebuilt stock, {ref}`Sec_Rebasing`) depreciating at $\delta_g = 0.02$, the private rate that reproduces the total is $(0.0414 - 0.167 \times 0.02)/0.833 = 0.0457$ (`macro_params.DELTA_ANNUAL`).  It replaces OG-Core's US default of 0.05 with a sourced value that happens to be close to it.
 
 ### Total factor productivity
 
